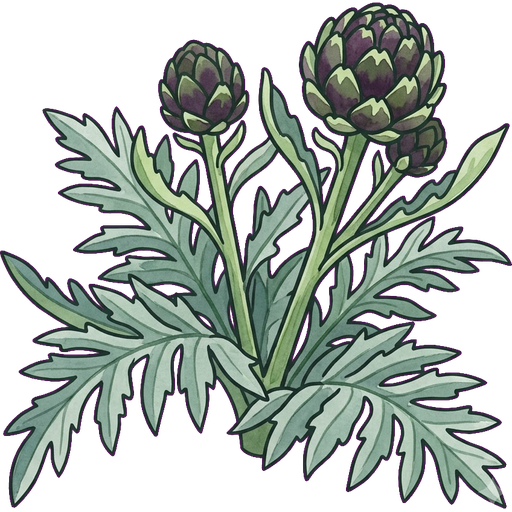
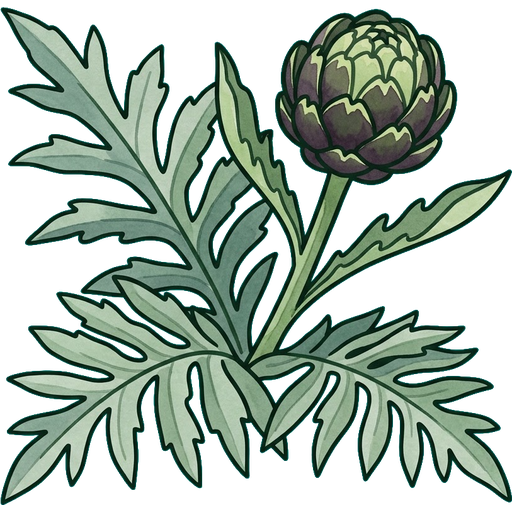
Sticker: replace Globe Artichoke (cyan BG, 65% fill, 3/4 angle, clean edges)

diff --git a/tools/sticker-generate-one.py b/tools/sticker-generate-one.py
@@ -231,7 +231,7 @@ PLANT_LOOKUP = {
     "walking onion":         ("vegetable-bulb_walking-onion",     "M",  256, "Bulb Vegetable",   "rootveg", "mid green #4A8A3A, bright green #5AB83A, small topset bulbs #C8A050, dark outline #0A1A0A", "Upright hollow green stems with a cluster of small bulblets forming at the very top, arching under their weight."),
     "hardneck garlic":       ("vegetable-bulb_hardneck-garlic",   "S",  160, "Bulb Vegetable",   "rootveg", "papery white #F5F0E8, pale purple tinge #C8B8D8, stiff green scape #4A8A3A, dark outline #0A1A0A", "Papery garlic bulb floating cleanly with a stiff green scape curling into a loop above."),
     # Vegetables - Stem
-    "globe artichoke":       ("vegetable-stem_globe-artichoke",   "M",  256, "Stem Vegetable",   "plant",   "blue-grey green #6A8A7A, silver-green #8AAF8A, deep purple-green bud #4A5A3A, pale green bracts #A8C890, dark outline #0A1A10", "Architectural plant with large silver-green deeply divided leaves and one or more large round flower buds on tall stems."),
+    "globe artichoke":       ("vegetable-stem_globe-artichoke",   "M",  256, "Stem Vegetable",   "plant",   "blue-grey green #6A8A7A, silver-green #8AAF8A, deep purple-green bud #4A5A3A, pale green bracts #A8C890, dark outline #0A1A10, flat solid cyan background (#00FFFF)", "Architectural plant with large silver-green deeply divided leaves and one or more large round flower buds on tall stems. Viewed from a 3/4 overhead angle, slight perspective depth. The plant must be small and centered — occupying only 65% of the canvas width and height, leaving a wide empty cyan border around all sides."),
     "cardoon":               ("vegetable-stem_cardoon",           "XL", 512, "Stem Vegetable",   "plant",   "silver-grey #8AAFC0, pale silver #C8D8D0, violet-purple flower #7B35C8, dark outline #0A1018", "Massive architectural plant with large deeply-lobed silver-grey thistle-like leaves and tall spiny stems with purple flowers."),
     "bok choy":              ("vegetable-stem_bok-choy",          "S",  160, "Stem Vegetable",   "plant",   "bright green #5AB83A, deep green #2A5A1A, pure white stems #F5F0E8, dark outline #0A1A0A", "Compact rosette with broad glossy green leaves and thick crisp white stalks fanning from base."),
     "pak choi":              ("vegetable-stem_bok-choy",          "S",  160, "Stem Vegetable",   "plant",   "bright green #5AB83A, deep green #2A5A1A, pure white stems #F5F0E8, dark outline #0A1A0A", "Compact rosette with broad glossy green leaves and thick crisp white stalks fanning from base."),
